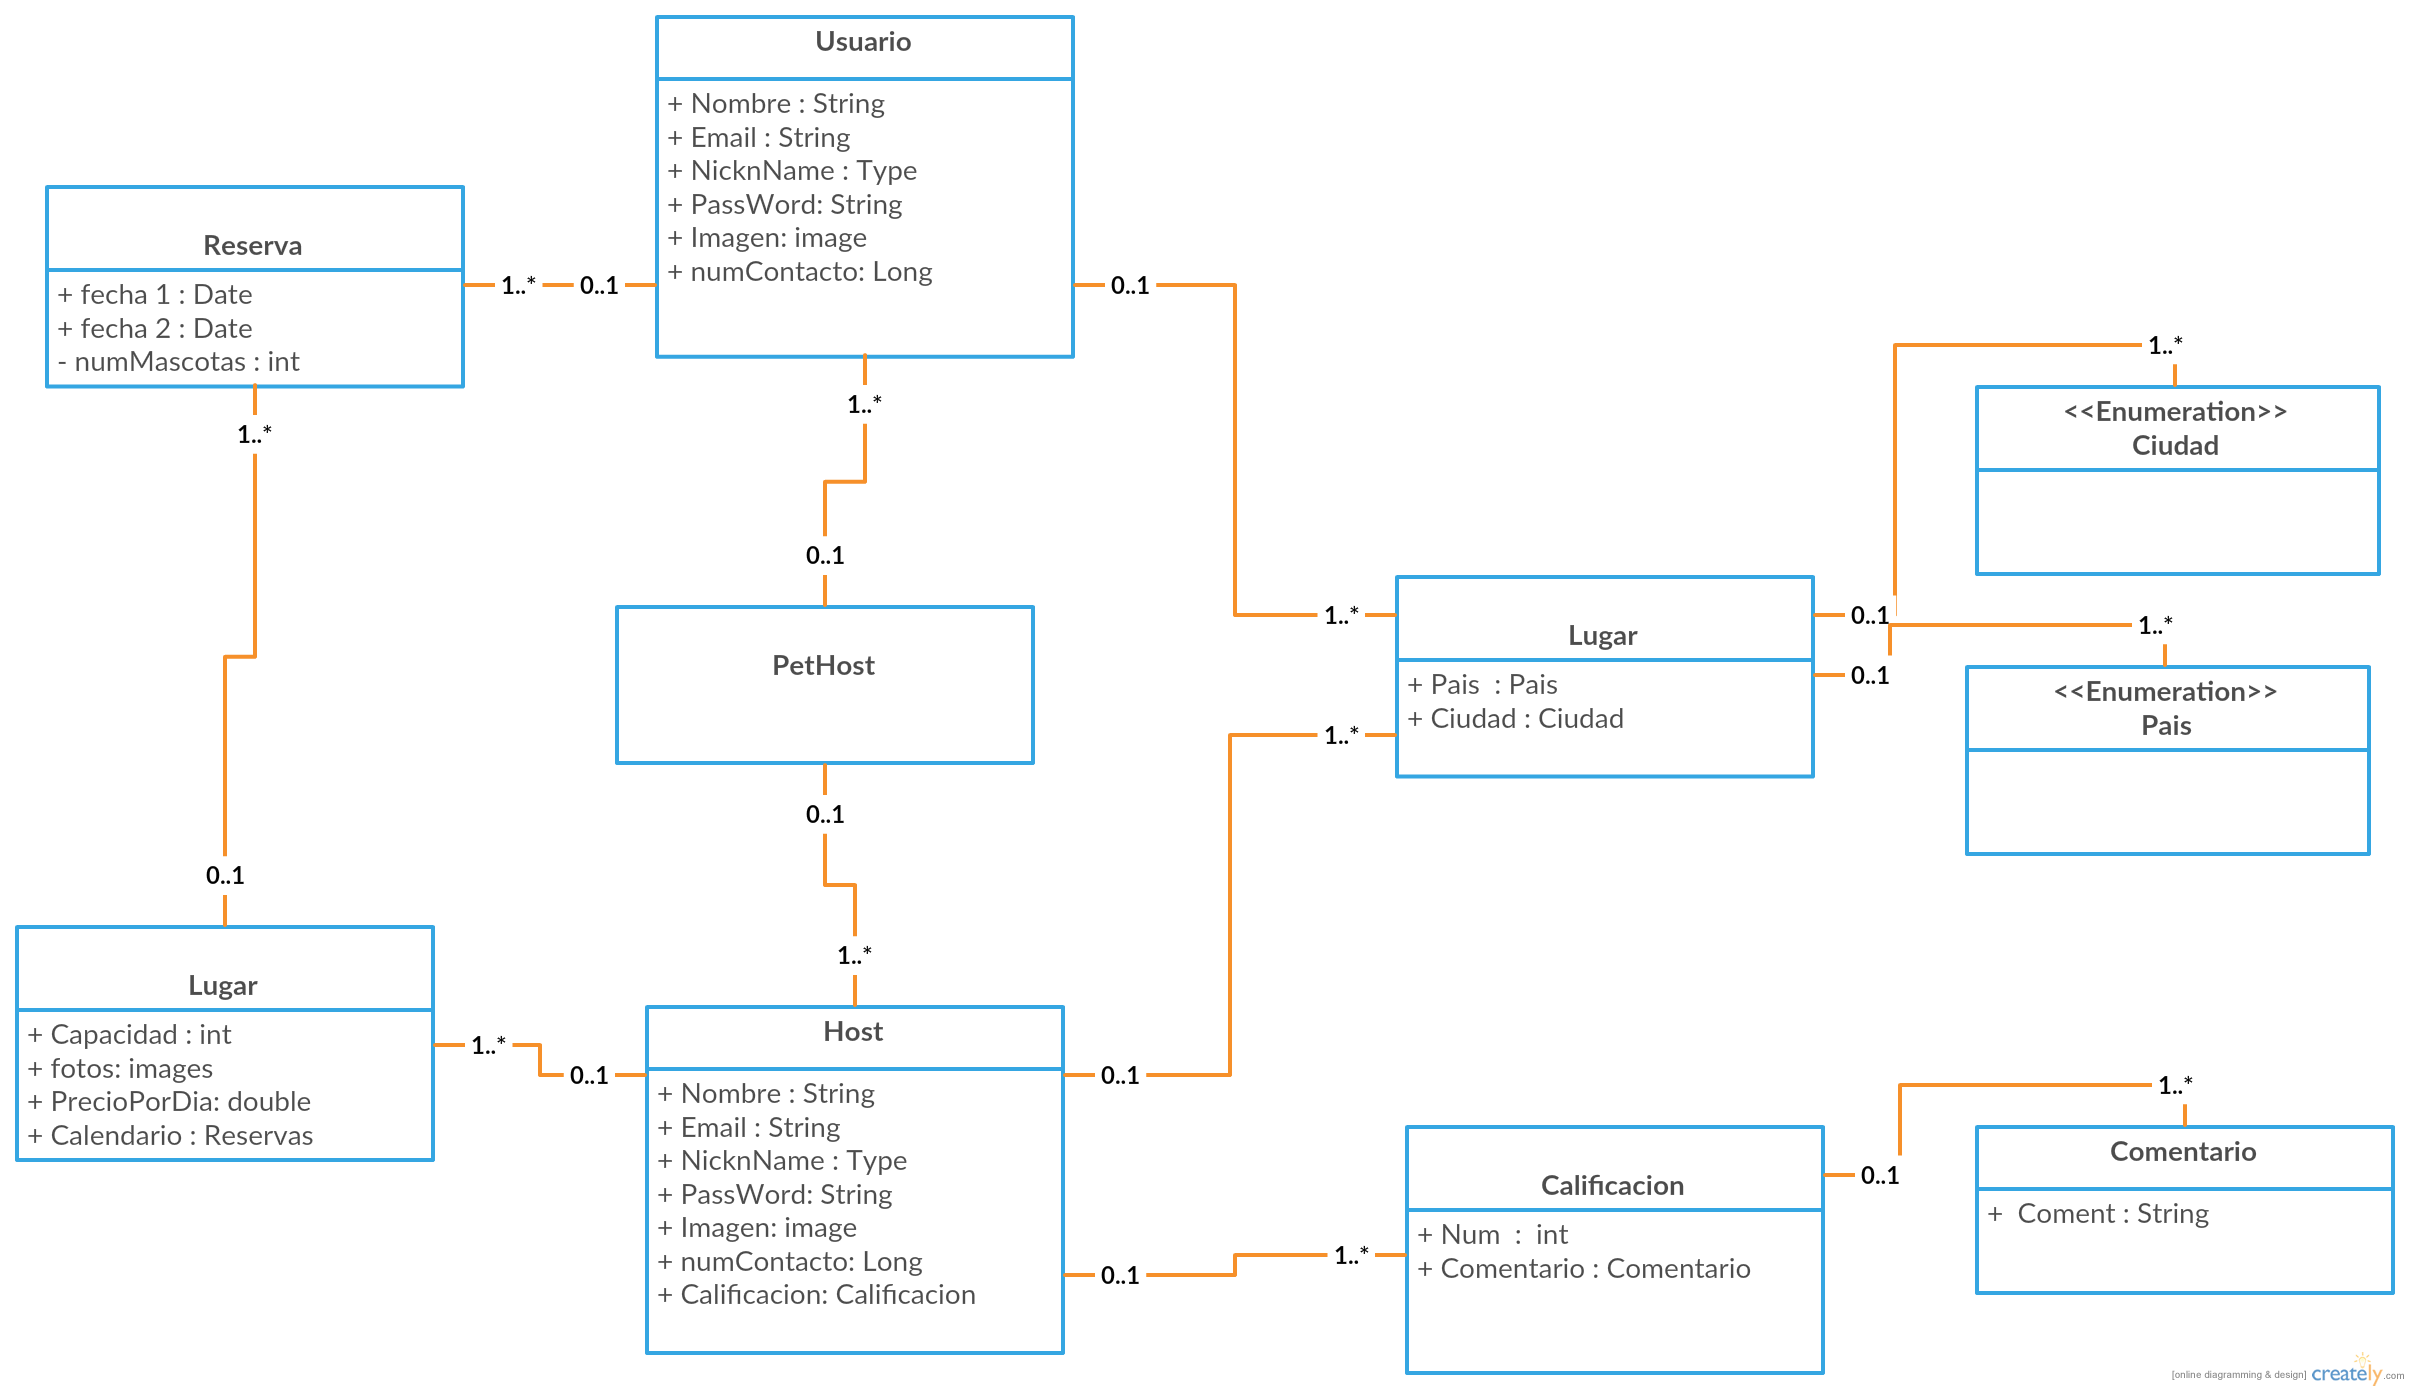
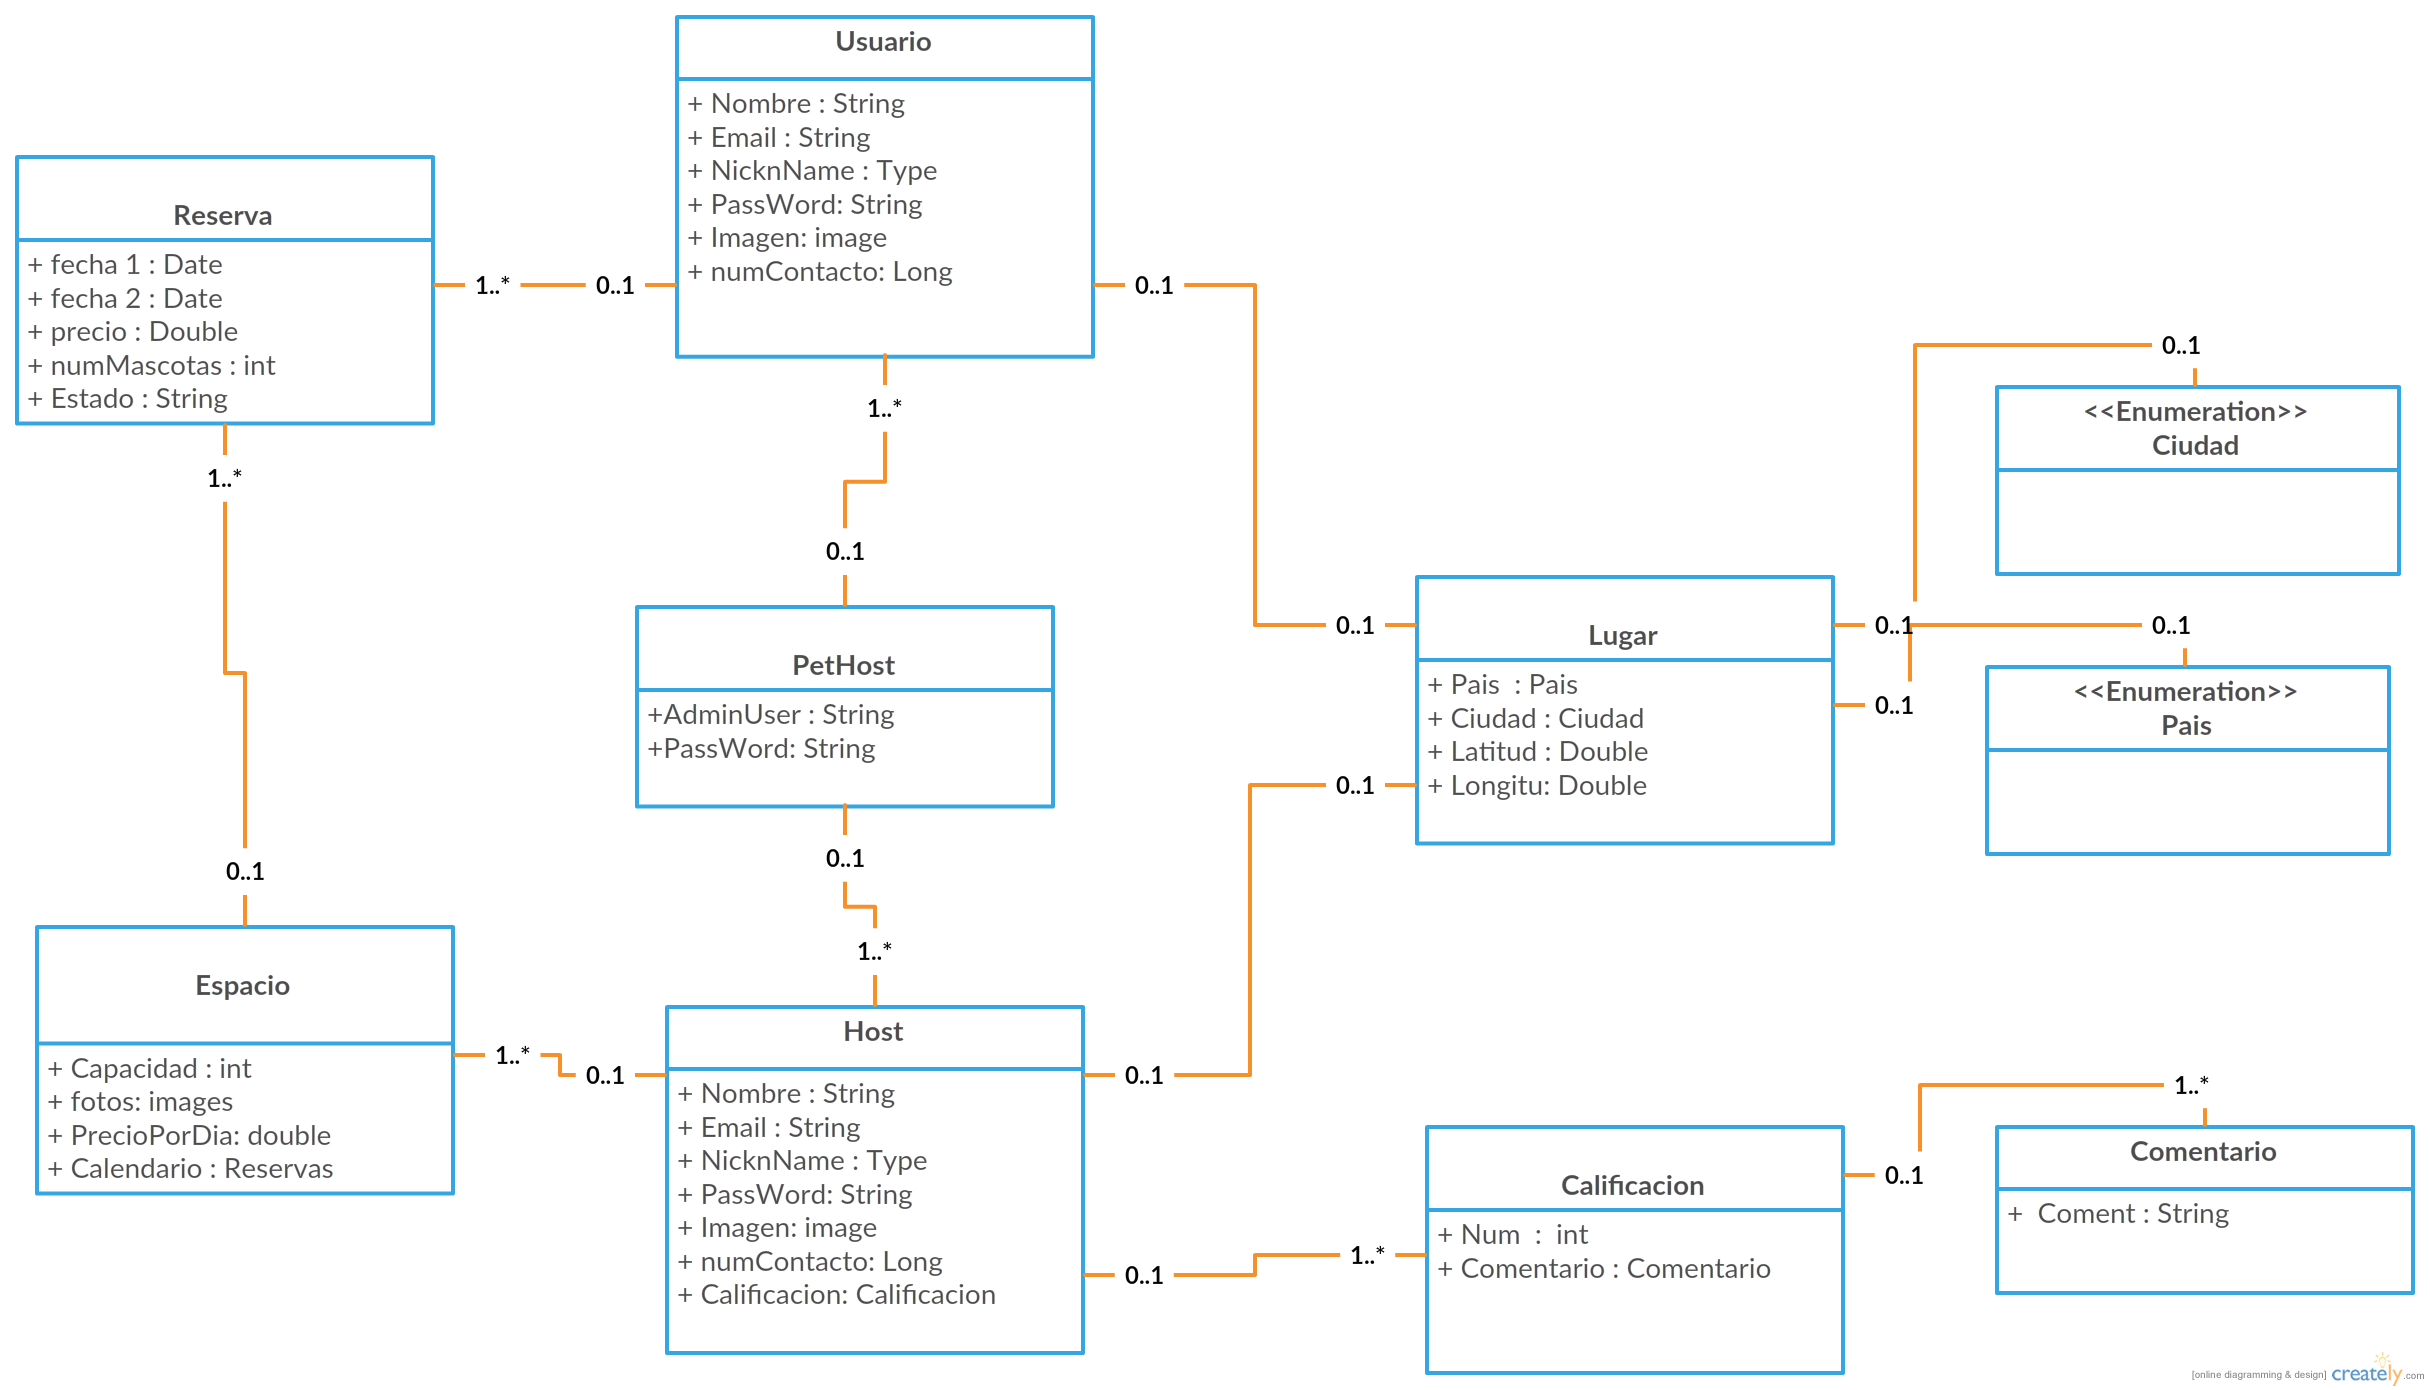
Relaciones entre las entidades
Update del modelo de clases, relaciones basicas entre entidades

diff --git a/app/models/Calificacion.java b/app/models/Calificacion.java
@@ -1,13 +1,9 @@
 package models;
 
-import javax.persistence.Entity;
-import akka.io.TcpConnection;
 import com.avaje.ebean.Model;
 import com.fasterxml.jackson.annotation.JsonBackReference;
-
 import javax.persistence.*;
 import java.util.List;
-import javax.persistence.Table;
 /**
  * Created by USUARIO on 28/09/2016.
  */
@@ -17,9 +13,22 @@ public class Calificacion extends Model {
 
     public static Finder<Long, Calificacion> FINDER = new Finder<>(Calificacion.class);
 
+    @Id
+    @GeneratedValue(strategy= GenerationType.SEQUENCE,generator = "Calificacion")
+    private Long id;
+    private String name;
+
+    @ManyToOne(cascade= CascadeType.ALL)
+    @JsonBackReference
+    private Host host;
+
+    @OneToMany(mappedBy = "calificacion")
+    private List<Comentario > comentarios;
+
     public Calificacion()
     {
-
+        this.id=null;
+        this.name ="NO NAME";
     }
 
 }

diff --git a/app/models/Reserva.java b/app/models/Reserva.java
@@ -1,8 +1,8 @@
 package models;
 import com.avaje.ebean.Model;
+import com.fasterxml.jackson.annotation.JsonBackReference;
 
-import javax.persistence.Entity;
-import javax.persistence.Table;
+import javax.persistence.*;
 /**
  * Created by USUARIO on 28/09/2016.
  */
@@ -10,4 +10,23 @@ import javax.persistence.Table;
 @Entity
 @Table(name="reservaEntity")
 public class Reserva extends Model{
+    public static Finder<Long, Reserva> FINDER = new Finder<>(Reserva.class);
+    @Id
+    @GeneratedValue(strategy= GenerationType.SEQUENCE,generator = "Reserva")
+    private Long id;
+    private String name;
+
+    @ManyToOne(cascade= CascadeType.ALL)
+    @JsonBackReference
+    private Usuario usuario;
+
+    @ManyToOne(cascade= CascadeType.ALL)
+    @JsonBackReference
+    private Espacio espacio;
+
+    public Reserva()
+    {
+        this.id=null;
+        this.name ="NO NAME";
+    }
 }

diff --git a/app/models/PetHost.java b/app/models/PetHost.java
@@ -2,8 +2,8 @@ package models;
 
 import com.avaje.ebean.Model;
 
-import javax.persistence.Entity;
-import javax.persistence.Table;
+import javax.persistence.*;
+import java.util.List;
 /**
  * Created by USUARIO on 28/09/2016.
  */
@@ -11,4 +11,21 @@ import javax.persistence.Table;
 @Entity
 @Table(name="pethostEntity")
 public class PetHost extends Model {
+    public static Finder<Long, PetHost> FINDER = new Finder<>(PetHost.class);
+    @Id
+    @GeneratedValue(strategy= GenerationType.SEQUENCE,generator = "PetHost")
+    private Long id;
+    private String name;
+
+    @OneToMany(mappedBy = "pethost")
+    private List<Host > personasHost;
+
+    @OneToMany(mappedBy = "pethost")
+    private List<Usuario > personas;
+
+    public PetHost()
+    {
+        this.id=null;
+        this.name ="NO NAME";
+    }
 }

diff --git a/app/models/Usuario.java b/app/models/Usuario.java
@@ -1,12 +1,29 @@
 package models;
 import com.avaje.ebean.Model;
 
-import javax.persistence.Entity;
-import javax.persistence.Table;
+import javax.persistence.*;
+import java.util.List;
 /**
  * Created by USUARIO on 28/09/2016.
  */
 @Entity
 @Table(name="usuarioEntity")
 public class Usuario extends Model {
+    public static Finder<Long, Usuario> FINDER = new Finder<>(Usuario.class);
+    @Id
+    @GeneratedValue(strategy= GenerationType.SEQUENCE,generator = "Usuario")
+    private Long id;
+    private String name;
+
+    @OneToMany(mappedBy = "usuario")
+    private List<Reserva > reservas;
+
+    @OneToOne(mappedBy = "usuario")
+    private Lugar lugar;
+
+    public Usuario()
+    {
+        this.id=null;
+        this.name ="NO NAME";
+    }
 }

diff --git a/app/models/Comentario.java b/app/models/Comentario.java
@@ -1,8 +1,8 @@
 package models;
 import com.avaje.ebean.Model;
+import com.fasterxml.jackson.annotation.JsonBackReference;
 
-import javax.persistence.Entity;
-import javax.persistence.Table;
+import javax.persistence.*;
 /**
  * Created by USUARIO on 28/09/2016.
  */
@@ -10,4 +10,18 @@ import javax.persistence.Table;
 @Entity
 @Table(name="comentarioEntity")
 public class Comentario extends Model{
+    public static Finder<Long, Comentario> FINDER = new Finder<>(Comentario.class);
+    @Id
+    @GeneratedValue(strategy= GenerationType.SEQUENCE,generator = "Comentario")
+    private Long id;
+
+    @ManyToOne
+    @JsonBackReference
+    private Calificacion calificacion;
+
+
+    public Comentario()
+    {
+        this.id=null;
+    }
 }

diff --git a/app/models/Lugar.java b/app/models/Lugar.java
@@ -3,6 +3,7 @@ import com.avaje.ebean.Model;
 
 import javax.persistence.Entity;
 import javax.persistence.Table;
+import javax.persistence.*;
 /**
  * Created by USUARIO on 28/09/2016.
  */
@@ -10,4 +11,18 @@ import javax.persistence.Table;
 @Entity
 @Table(name="lugarEntity")
 public class Lugar extends Model {
+    public static Finder<Long, Lugar> FINDER = new Finder<>(Lugar.class);
+    @Id
+    @GeneratedValue(strategy= GenerationType.SEQUENCE,generator = "Espacio")
+    private Long id;
+    private String name;
+    @OneToOne(mappedBy = "lugar")
+    private Host host;
+    @OneToOne(mappedBy = "lugar")
+    private Usuario usuario;
+    public Lugar()
+    {
+        this.id=null;
+        this.name ="NO NAME";
+    }
 }

diff --git a/app/models/Espacio.java b/app/models/Espacio.java
@@ -4,7 +4,6 @@ import com.fasterxml.jackson.annotation.JsonBackReference;
 
 import javax.persistence.*;
 import java.util.List;
-
 /**
  * Created by USUARIO on 28/09/2016.
  */

diff --git a/app/models/Host.java b/app/models/Host.java
@@ -30,7 +30,6 @@ public class Host extends Model {
 
     @OneToOne(mappedBy = "host")
     private Lugar lugar;
-
     public Host()
     {
         this.id=null;
